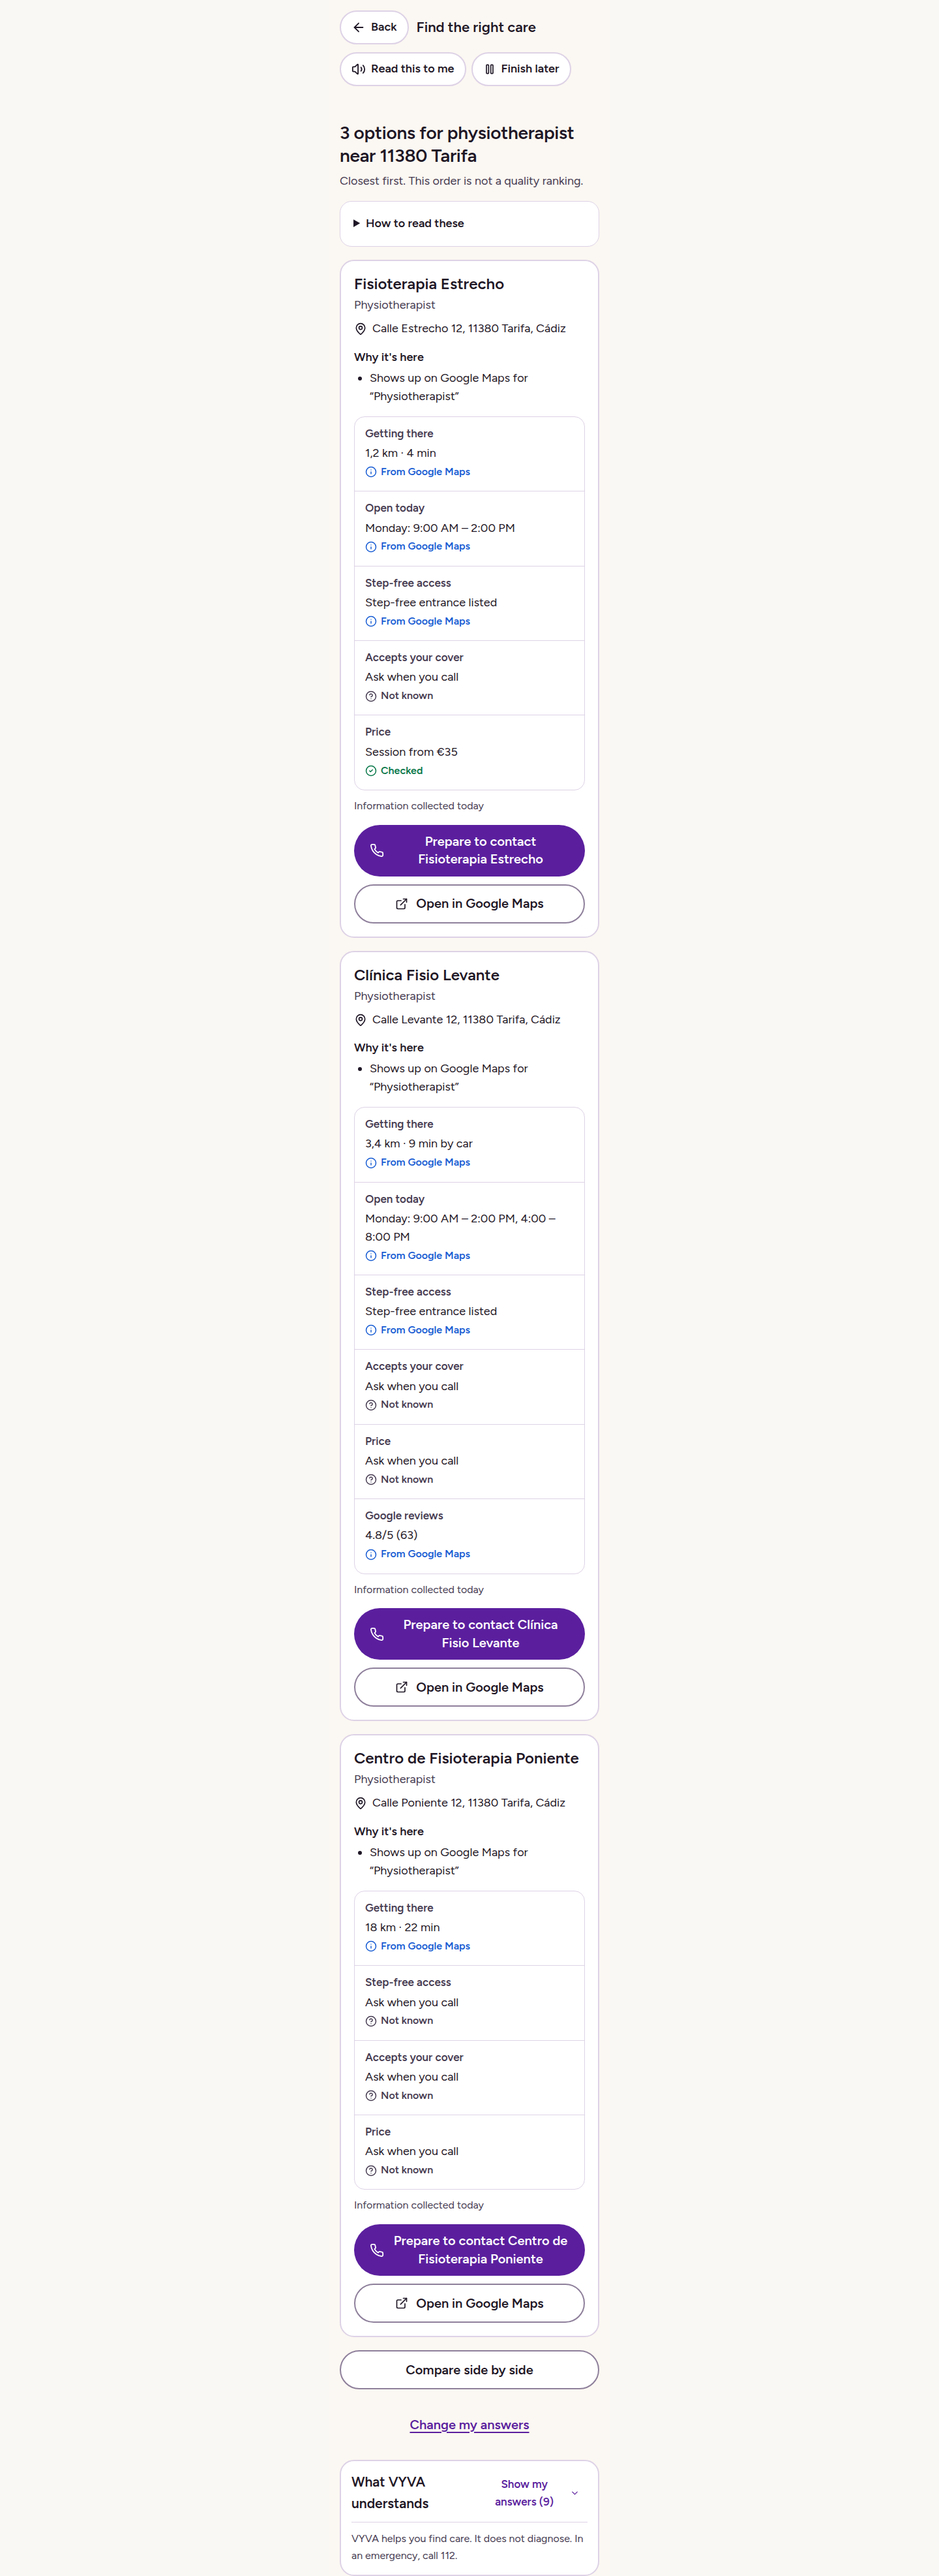
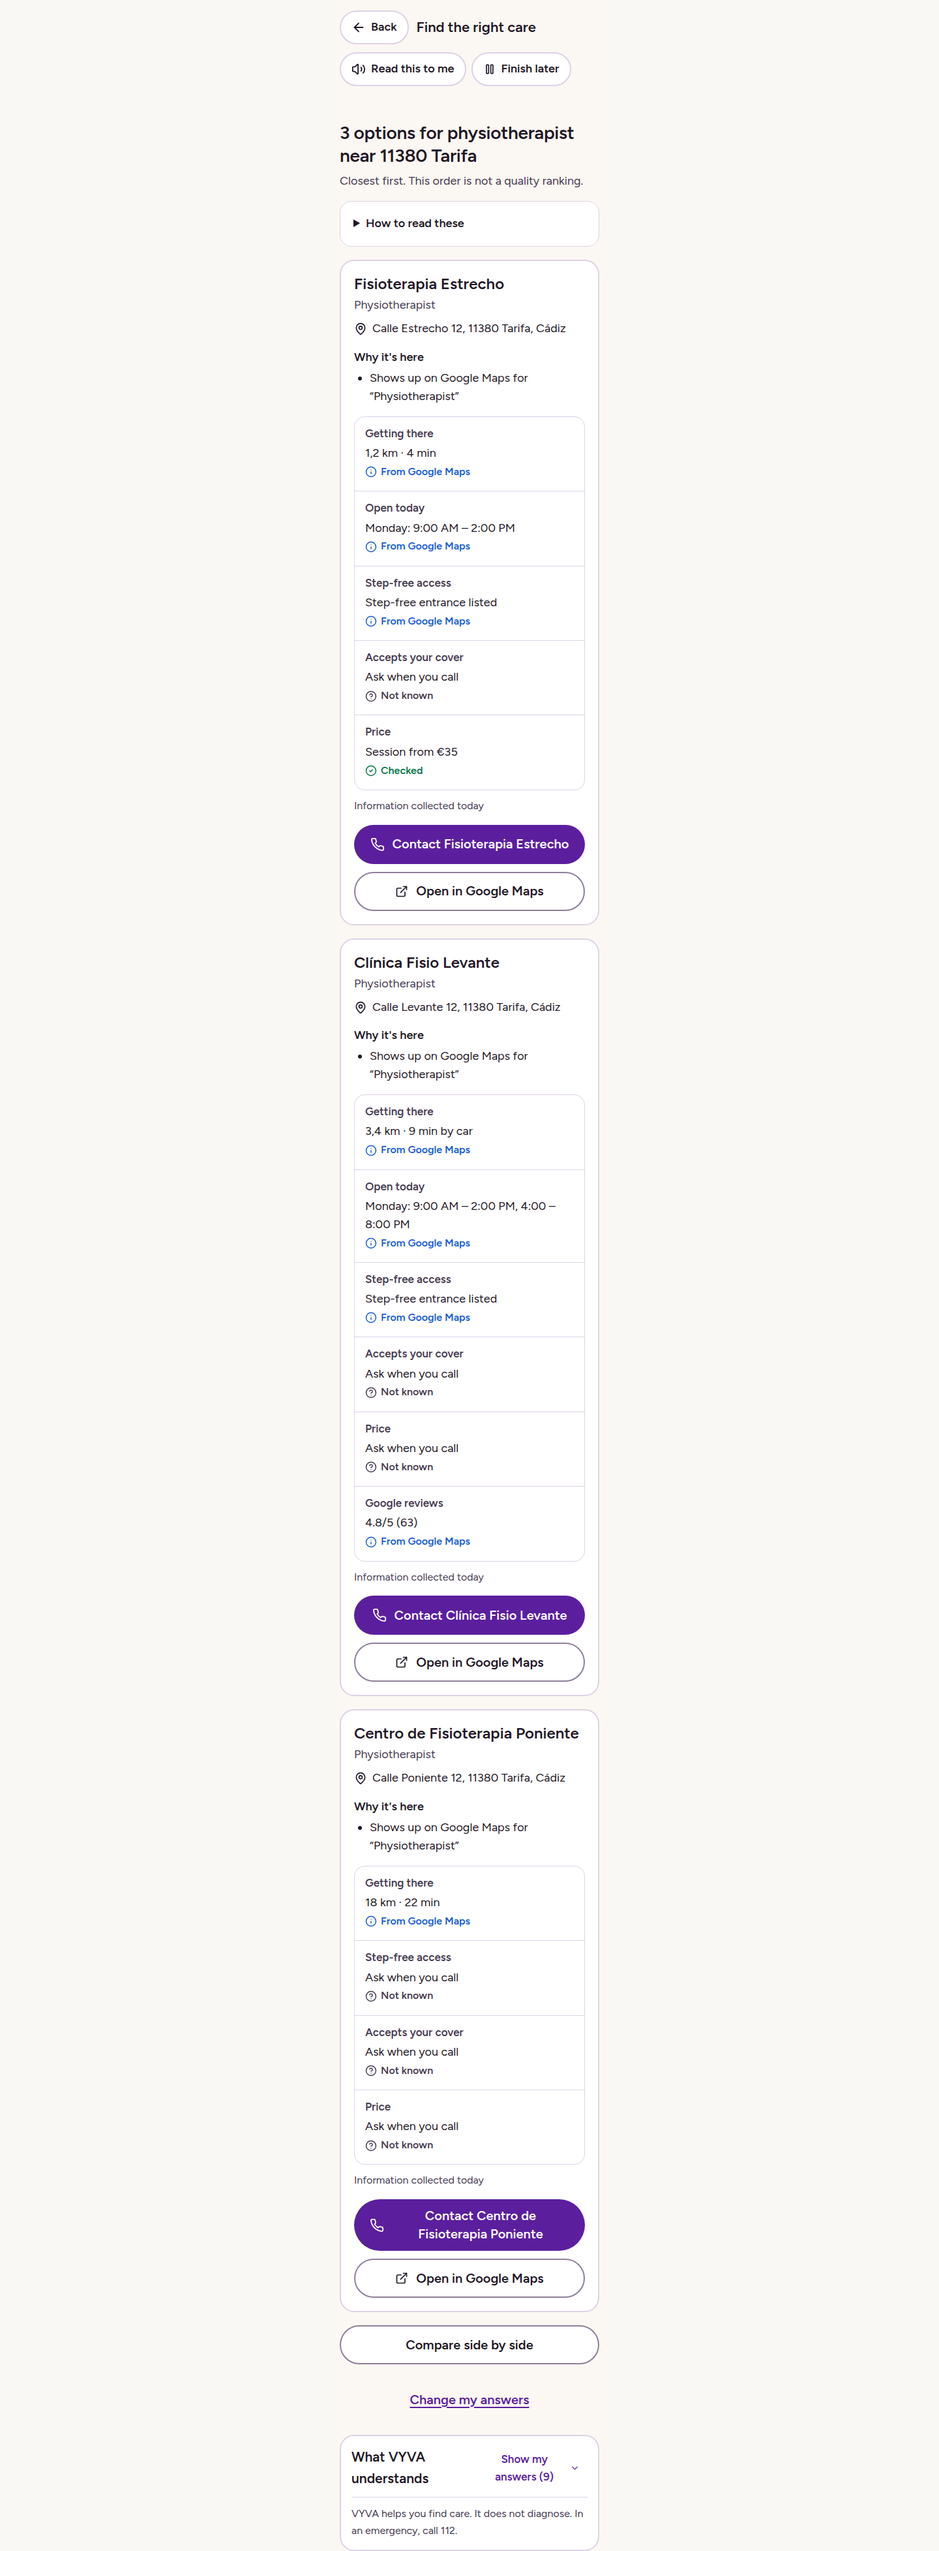
Care Finder: contact step is the place and how to reach it
VYVA finds the right service and gets the member to it; it doesn't coach
them on what to say. The contact step drops the call script and its intro
and now shows the place: name, address, distance, phone, then Call, booking
or website, email, ride, share and outcome. The results button reads
"Contact <name>". contactScript.ts becomes shareMessage.ts (only the share
message is left).

Claude-Session: https://claude.ai/code/session_01VV49smnWjUgj9Kvixja9Ew

Changed region(s): [[0.375, 0.0312, 0.625, 0.9987]]

diff --git a/src/features/careFinder/copy.ts b/src/features/careFinder/copy.ts
@@ -129,7 +129,7 @@ function englishCopy() {
       unknownDetail: "Ask when you call",
       why: "Why it's here",
       goodToKnow: "Good to know (VYVA's general understanding, not checked for this place)",
-      prepare: (name: string) => `Prepare to contact ${name}`,
+      prepare: (name: string) => `Contact ${name}`,
       openMap: "Open in Google Maps",
       compare: "Compare side by side",
       hideCompare: "Hide comparison",
@@ -156,10 +156,7 @@ function englishCopy() {
       },
     },
     contact: {
-      heading: (name: string) => `Before you contact ${name}`,
-      intro: "VYVA doesn't send anything. You decide what to say and when.",
-      scriptTitle: "What you could say",
-      scriptTranslated: "Said in Spanish, with the English meaning underneath.",
+      heading: (name: string) => name,
       call: (name: string) => `Call ${name}`,
       noPhone: "No phone number was found for this place.",
       website: "Website",
@@ -346,7 +343,7 @@ function spanishCopy(): Copy {
       unknownDetail: "Pregúntelo al llamar",
       why: "Por qué aparece",
       goodToKnow: "Conviene saber (información general de VYVA, no comprobada para este sitio)",
-      prepare: (name: string) => `Preparar el contacto con ${name}`,
+      prepare: (name: string) => `Contactar con ${name}`,
       openMap: "Abrir en Google Maps",
       compare: "Comparar una al lado de otra",
       hideCompare: "Ocultar comparación",
@@ -373,10 +370,7 @@ function spanishCopy(): Copy {
       },
     },
     contact: {
-      heading: (name: string) => `Antes de contactar con ${name}`,
-      intro: "VYVA no envía nada. Usted decide qué decir y cuándo.",
-      scriptTitle: "Lo que puede decir",
-      scriptTranslated: "En español, con el significado en inglés debajo.",
+      heading: (name: string) => name,
       call: (name: string) => `Llamar a ${name}`,
       noPhone: "No hemos encontrado un teléfono para este sitio.",
       website: "Web",
@@ -564,7 +558,7 @@ function frenchCopy(): Copy {
       unknownDetail: "À demander lors de l'appel",
       why: "Pourquoi ce lieu apparaît",
       goodToKnow: "Bon à savoir (information générale de VYVA, non vérifiée pour ce lieu)",
-      prepare: (name: string) => `Préparer le contact avec ${name}`,
+      prepare: (name: string) => `Contacter ${name}`,
       openMap: "Ouvrir dans Google Maps",
       compare: "Comparer côte à côte",
       hideCompare: "Masquer la comparaison",
@@ -591,10 +585,7 @@ function frenchCopy(): Copy {
       },
     },
     contact: {
-      heading: (name: string) => `Avant de contacter ${name}`,
-      intro: "VYVA n'envoie rien. C'est vous qui décidez quoi dire et quand.",
-      scriptTitle: "Ce que vous pourriez dire",
-      scriptTranslated: "En espagnol, avec la traduction en français en dessous.",
+      heading: (name: string) => name,
       call: (name: string) => `Appeler ${name}`,
       noPhone: "Aucun numéro de téléphone n'a été trouvé pour ce lieu.",
       website: "Site web",
@@ -782,7 +773,7 @@ function germanCopy(): Copy {
       unknownDetail: "Beim Anruf nachfragen",
       why: "Warum es hier steht",
       goodToKnow: "Gut zu wissen (allgemeine Einschätzung von VYVA, für diesen Ort nicht geprüft)",
-      prepare: (name: string) => `Kontakt mit ${name} vorbereiten`,
+      prepare: (name: string) => `${name} kontaktieren`,
       openMap: "In Google Maps öffnen",
       compare: "Nebeneinander vergleichen",
       hideCompare: "Vergleich ausblenden",
@@ -809,10 +800,7 @@ function germanCopy(): Copy {
       },
     },
     contact: {
-      heading: (name: string) => `Bevor Sie ${name} kontaktieren`,
-      intro: "VYVA sendet nichts. Sie entscheiden, was Sie sagen und wann.",
-      scriptTitle: "Was Sie sagen könnten",
-      scriptTranslated: "Auf Spanisch, darunter die Bedeutung auf Deutsch.",
+      heading: (name: string) => name,
       call: (name: string) => `${name} anrufen`,
       noPhone: "Für diesen Ort wurde keine Telefonnummer gefunden.",
       website: "Website",

diff --git a/src/features/careFinder/ContactStep.tsx b/src/features/careFinder/ContactStep.tsx
@@ -1,28 +1,15 @@
 import { useEffect, useRef, useState, type ReactNode } from "react";
-import { Car, Copy, ExternalLink, Mail, Phone, Share2 } from "lucide-react";
+import { Car, Copy, ExternalLink, Mail, MapPin, Phone, Share2 } from "lucide-react";
 import type { CareFinderLang } from "../../../shared/careFinder/careRoutes";
 import { CARE_OUTCOME_IDS, type CareFinderState, type CareOutcomeId } from "../../../shared/careFinder/flow";
 import type { CareFinderResultOption } from "../../../shared/careFinder/search";
 import type { CareFinderCopy } from "./copy";
-import { careContactScript, careShareMessage, type ScriptLine } from "./contactScript";
+import { careShareMessage } from "./shareMessage";
 import { ActionButton, ChoiceButton, Notice, actionClass } from "./parts";
 import { formatCheckedAt } from "./ResultsStep";
 
 function telHref(phone: string): string {
   return `tel:${phone.replace(/[^\d+]/g, "")}`;
-}
-
-function ScriptList({ lines, lang }: { lines: ScriptLine[]; lang: CareFinderLang }) {
-  return (
-    <ul className="space-y-3">
-      {lines.map((line) => (
-        <li key={line.key} className="rounded-[16px] bg-[var(--cf-surface-2)] px-4 py-3">
-          <span lang="es" className="block text-[21px] font-semibold leading-snug text-[var(--cf-text)]">{line.es}</span>
-          {lang !== "es" ? <span className="mt-1 block text-[17px] text-[var(--cf-text-2)]">{line[lang]}</span> : null}
-        </li>
-      ))}
-    </ul>
-  );
 }
 
 function ConfirmCallDialog({ name, phone, copy, onClose }: { name: string; phone: string; copy: CareFinderCopy; onClose: () => void }) {
@@ -86,7 +73,6 @@ export function ContactStep({
   const [confirming, setConfirming] = useState(false);
   const [sharePreview, setSharePreview] = useState(false);
   const [shareNotice, setShareNotice] = useState<string | null>(null);
-  const script = careContactScript(state, lang);
   const shareMessage = careShareMessage(option, state, lang, formatCheckedAt(option.checked_at ?? new Date().toISOString(), lang));
 
   const shareNow = async () => {
@@ -106,13 +92,17 @@ export function ContactStep({
   return (
     <div className="space-y-6">
       {heading(c.heading(option.name))}
-      <Notice tone="info">{c.intro}</Notice>
-
-      <section aria-labelledby="care-script-title" className="space-y-3">
-        <h3 id="care-script-title" className="text-[23px] font-semibold">{c.scriptTitle}</h3>
-        {lang !== "es" ? <p className="text-[17px] text-[var(--cf-text-2)]">{c.scriptTranslated}</p> : null}
-        <ScriptList lines={script} lang={lang} />
-      </section>
+      {option.address || option.travel_text || option.phone ? (
+        <div className="space-y-2 text-[19px] text-[var(--cf-text)]">
+          {option.address ? (
+            <p className="flex items-start gap-2"><MapPin size={20} className="mt-1 shrink-0" aria-hidden="true" />{option.address}</p>
+          ) : null}
+          {option.travel_text ? <p className="pl-7 text-[17px] text-[var(--cf-text-2)]">{option.travel_text}</p> : null}
+          {option.phone ? (
+            <p className="flex items-center gap-2"><Phone size={20} className="shrink-0" aria-hidden="true" />{option.phone}</p>
+          ) : null}
+        </div>
+      ) : null}
 
       <section className="space-y-3">
         {option.phone ? (

diff --git a/src/features/careFinder/CareFinder.test.tsx b/src/features/careFinder/CareFinder.test.tsx
@@ -186,7 +186,7 @@ describe("contact safeguards", () => {
     fireEvent.click(screen.getByTestId("toggle-access-companion"));
     fireEvent.click(screen.getByTestId("button-show-options"));
     fireEvent.click(await screen.findByTestId("button-prepare-a"));
-    await screen.findByRole("heading", { name: "Before you contact Fisio Cerca" });
+    await screen.findByRole("heading", { name: "Fisio Cerca" });
   }
 
   it("never dials without an explicit second confirmation", async () => {
@@ -217,13 +217,11 @@ describe("contact safeguards", () => {
     expect(screen.queryByTestId("link-care-email")).not.toBeInTheDocument();
   });
 
-  it("keeps the reason private and the practical lines in the script, with no extra sections", async () => {
+  it("shows the place's details and ways to reach it, with no call script", async () => {
     await openContact();
-    expect(screen.queryByText(/The reason is/)).not.toBeInTheDocument();
-    expect(screen.getByText("Stairs are hard for me. Is the entrance step-free, or is there a lift?")).toBeInTheDocument();
-    expect(screen.getByText("Someone will come with me.")).toBeInTheDocument();
-    expect(screen.queryByText("Questions worth asking")).not.toBeInTheDocument();
-    expect(screen.queryByTestId("toggle-share-reason")).not.toBeInTheDocument();
+    expect(screen.getByText("Fisio Cerca street, Tarifa")).toBeInTheDocument();
+    expect(screen.queryByText("What you could say")).not.toBeInTheDocument();
+    expect(screen.queryByText(/Stairs are hard for me/)).not.toBeInTheDocument();
     fireEvent.click(screen.getByTestId("button-care-share-preview"));
     expect(screen.getByTestId("care-share-preview").textContent).not.toContain("knee");
   });
@@ -295,7 +293,7 @@ describe("profile reuse and resume", () => {
 });
 
 describe("French and German", () => {
-  it("runs the knee journey in French, with the call script translated", async () => {
+  it("runs the knee journey in French", async () => {
     renderFinder({ lang: "fr" });
     expect(screen.getByRole("heading", { name: "Pour qui sont les soins ?" })).toBeInTheDocument();
     fireEvent.click(screen.getByTestId("choice-who-self"));
@@ -312,10 +310,8 @@ describe("French and German", () => {
     fireEvent.click(screen.getByTestId("toggle-access-english"));
     fireEvent.click(screen.getByTestId("button-show-options"));
     fireEvent.click(await screen.findByTestId("button-prepare-a"));
-    expect(await screen.findByRole("heading", { name: "Avant de contacter Fisio Cerca" })).toBeInTheDocument();
-    expect(screen.getByText("Hola, llamo para pedir una cita.")).toBeInTheDocument();
-    expect(screen.getByText("Bonjour, j'appelle pour demander un rendez-vous.")).toBeInTheDocument();
-    expect(screen.getByText("¿Hay alguien que hable francés?")).toBeInTheDocument();
+    expect(await screen.findByRole("heading", { name: "Fisio Cerca" })).toBeInTheDocument();
+    expect(screen.getByTestId("button-care-call")).toHaveTextContent("Appeler Fisio Cerca");
   });
 
   it("shows the emergency screen for French and German warning signs", async () => {

diff --git a/src/features/careFinder/shareMessage.ts b/src/features/careFinder/shareMessage.ts
@@ -1,0 +1,62 @@
+import { CARE_TYPES, type CareFinderLang } from "../../../shared/careFinder/careRoutes";
+import type { CareFinderState } from "../../../shared/careFinder/flow";
+import type { CareFinderResultOption } from "../../../shared/careFinder/search";
+
+// The short message a member can send to someone they trust about a place.
+
+const SHARE_TEXT: Record<CareFinderLang, {
+  lookingAt: (name: string, care: string, forRelative: boolean) => string;
+  address: string;
+  phone: string;
+  email: string;
+  reason: string;
+  footer: (checkedOn: string) => string;
+}> = {
+  en: {
+    lookingAt: (name, care, other) => `I'm looking at ${name} (${care.toLowerCase()})${other ? " for a relative" : ""}.`,
+    address: "Address",
+    phone: "Phone",
+    email: "Email",
+    reason: "Reason",
+    footer: (when) => `Found with VYVA ${when}. Anything marked "not known" still needs checking.`,
+  },
+  es: {
+    lookingAt: (name, care, other) => `Estoy mirando ${name} (${care.toLowerCase()})${other ? " para un familiar" : ""}.`,
+    address: "Dirección",
+    phone: "Teléfono",
+    email: "Correo electrónico",
+    reason: "Motivo",
+    footer: (when) => `Encontrado con VYVA ${when}. Lo que aparece como "no se sabe" hay que confirmarlo.`,
+  },
+  fr: {
+    lookingAt: (name, care, other) => `Je regarde ${name} (${care.toLowerCase()})${other ? " pour un proche" : ""}.`,
+    address: "Adresse",
+    phone: "Téléphone",
+    email: "E-mail",
+    reason: "Raison",
+    footer: (when) => `Trouvé avec VYVA ${when}. Ce qui est marqué « inconnu » reste à vérifier.`,
+  },
+  de: {
+    lookingAt: (name, care, other) => `Ich schaue mir ${name} an (${care})${other ? " für einen Angehörigen" : ""}.`,
+    address: "Adresse",
+    phone: "Telefon",
+    email: "E-Mail",
+    reason: "Grund",
+    footer: (when) => `Mit VYVA gefunden ${when}. Was als „unbekannt“ markiert ist, muss noch geprüft werden.`,
+  },
+};
+
+export function careShareMessage(option: CareFinderResultOption, state: CareFinderState, lang: CareFinderLang, checkedOn: string): string {
+  const careLabel = state.careType ? CARE_TYPES[state.careType].label[lang] : option.category ?? "";
+  const share = new Set(state.shareItems);
+  const text = SHARE_TEXT[lang];
+  const lines = [
+    text.lookingAt(option.name, careLabel, state.who === "other"),
+    option.address ? `${text.address}: ${option.address}` : "",
+    option.phone ? `${text.phone}: ${option.phone}` : "",
+    option.email ? `${text.email}: ${option.email}` : "",
+    share.has("reason") && state.description ? `${text.reason}: “${state.description}”` : "",
+    text.footer(checkedOn),
+  ];
+  return lines.filter(Boolean).join("\n");
+}

diff --git a/e2e/care-finder.spec.ts b/e2e/care-finder.spec.ts
@@ -159,7 +159,7 @@ test("contact preparation requires confirmation before calling", async ({ page }
   await open(page, "theme=light");
   await walkToResults(page);
   await page.getByTestId("button-prepare-a").click();
-  await expect(page.getByRole("heading", { name: "Before you contact Fisioterapia Estrecho" })).toBeVisible();
+  await expect(page.getByRole("heading", { name: "Fisioterapia Estrecho", level: 2 })).toBeVisible();
   await expect(page.locator('a[href^="tel:+34"]')).toHaveCount(0);
   await expect(page.getByTestId("link-care-email")).toHaveAttribute("href", "mailto:citas.fisioterapia@fisioterapiaestrecho-tarifa.es");
   await expectNoHorizontalScroll(page);
